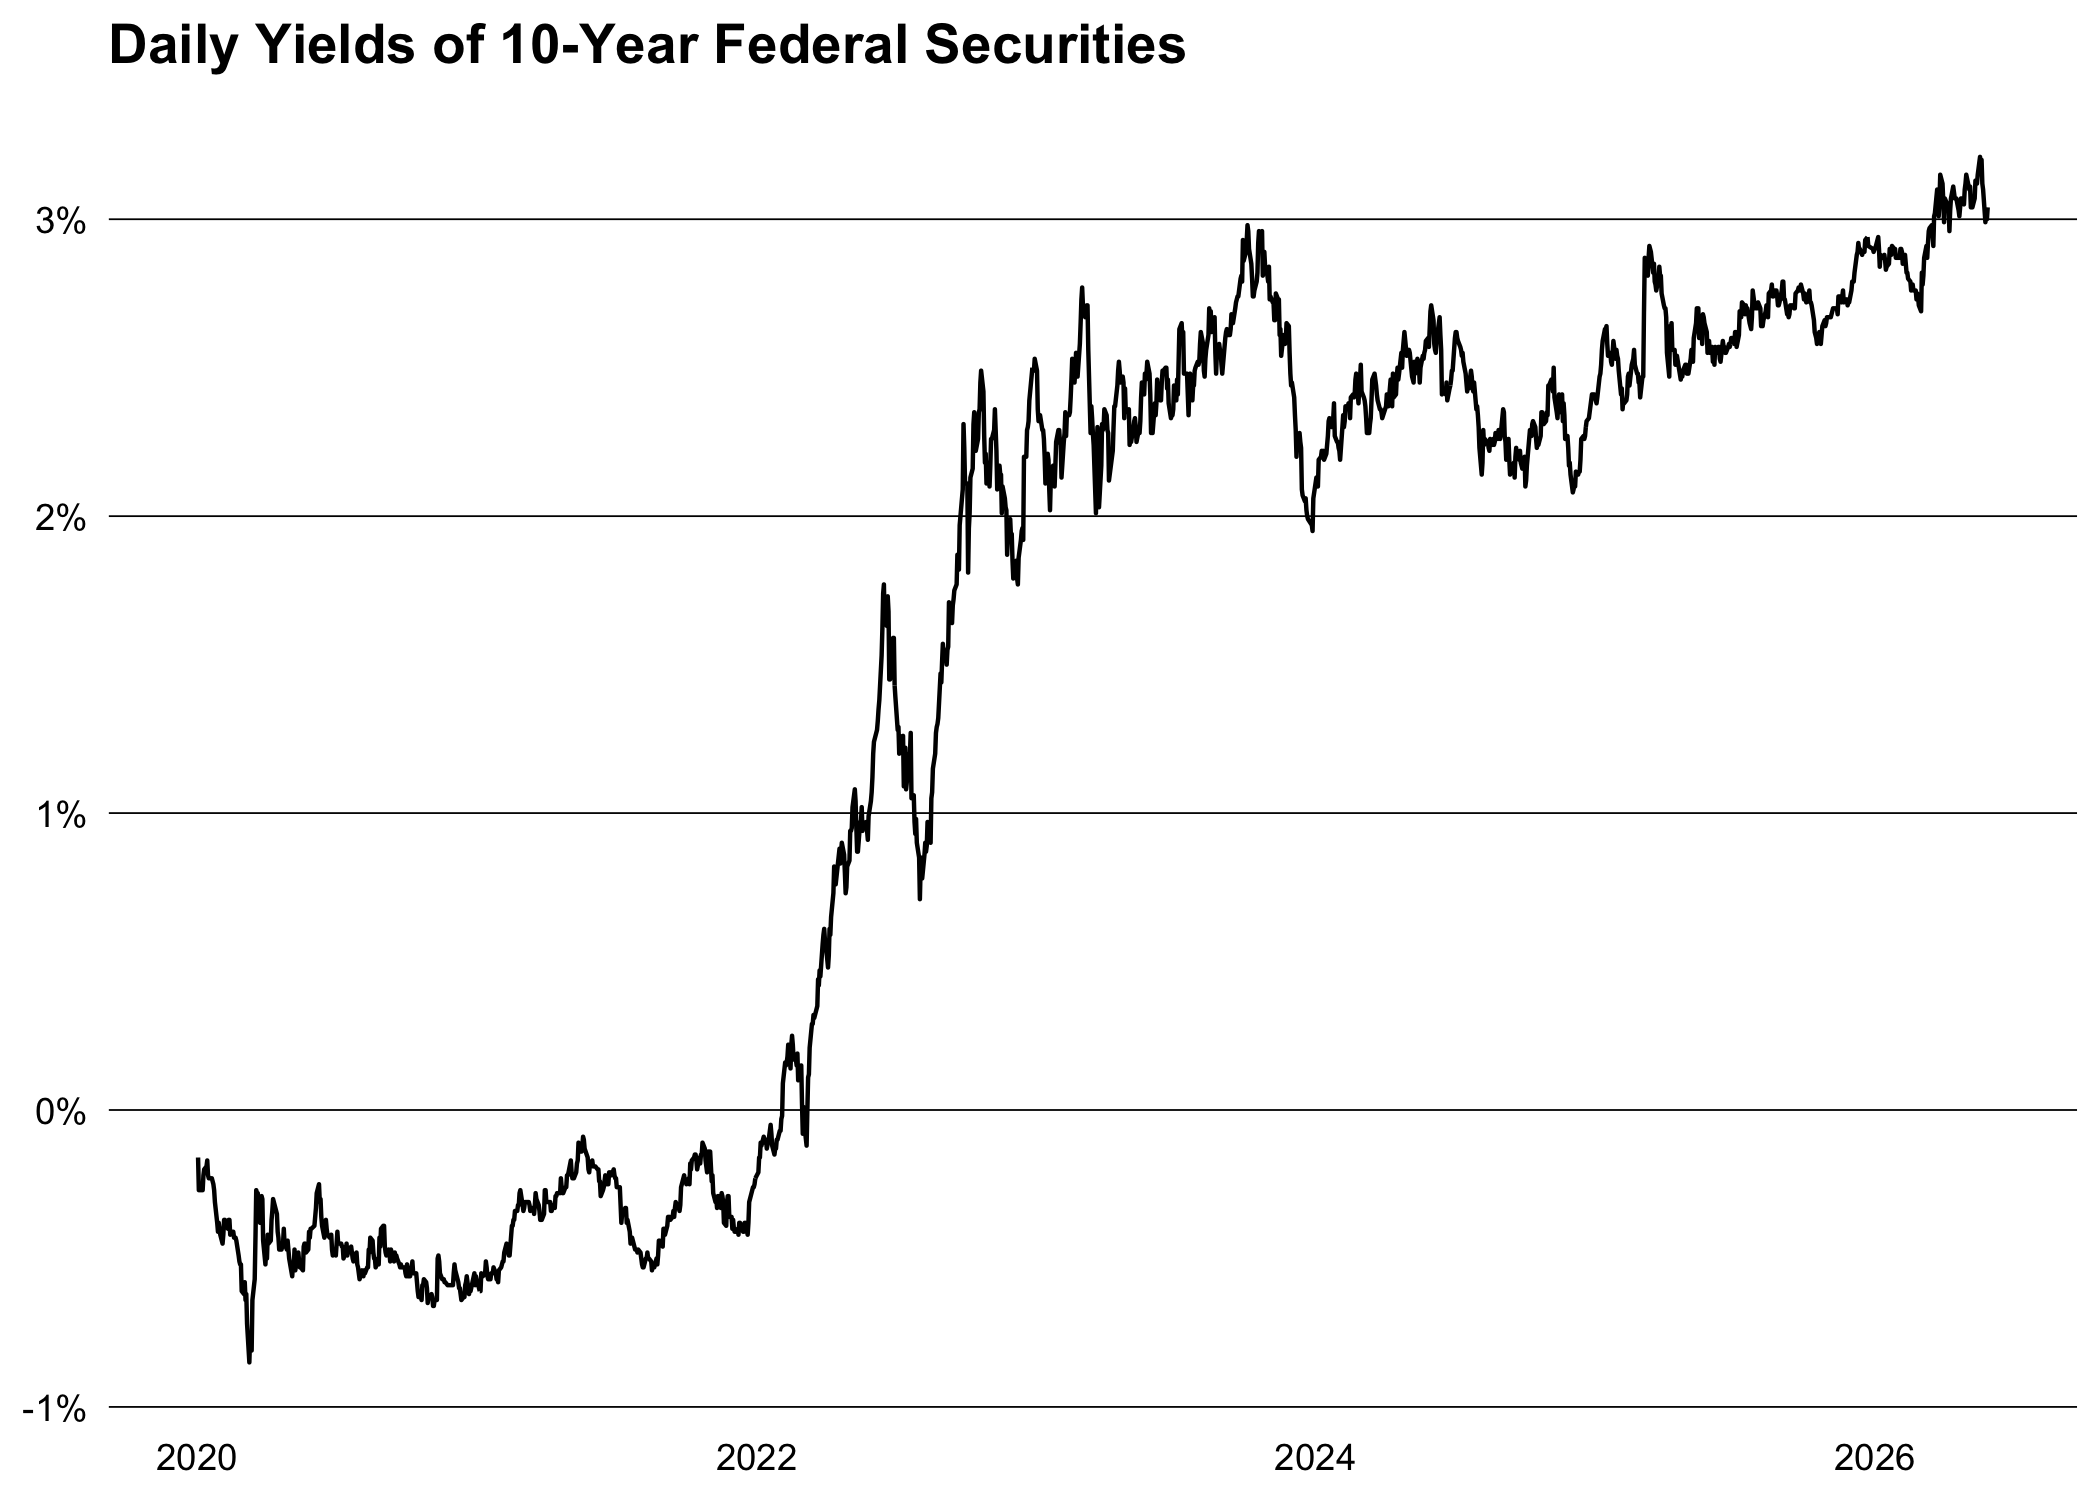
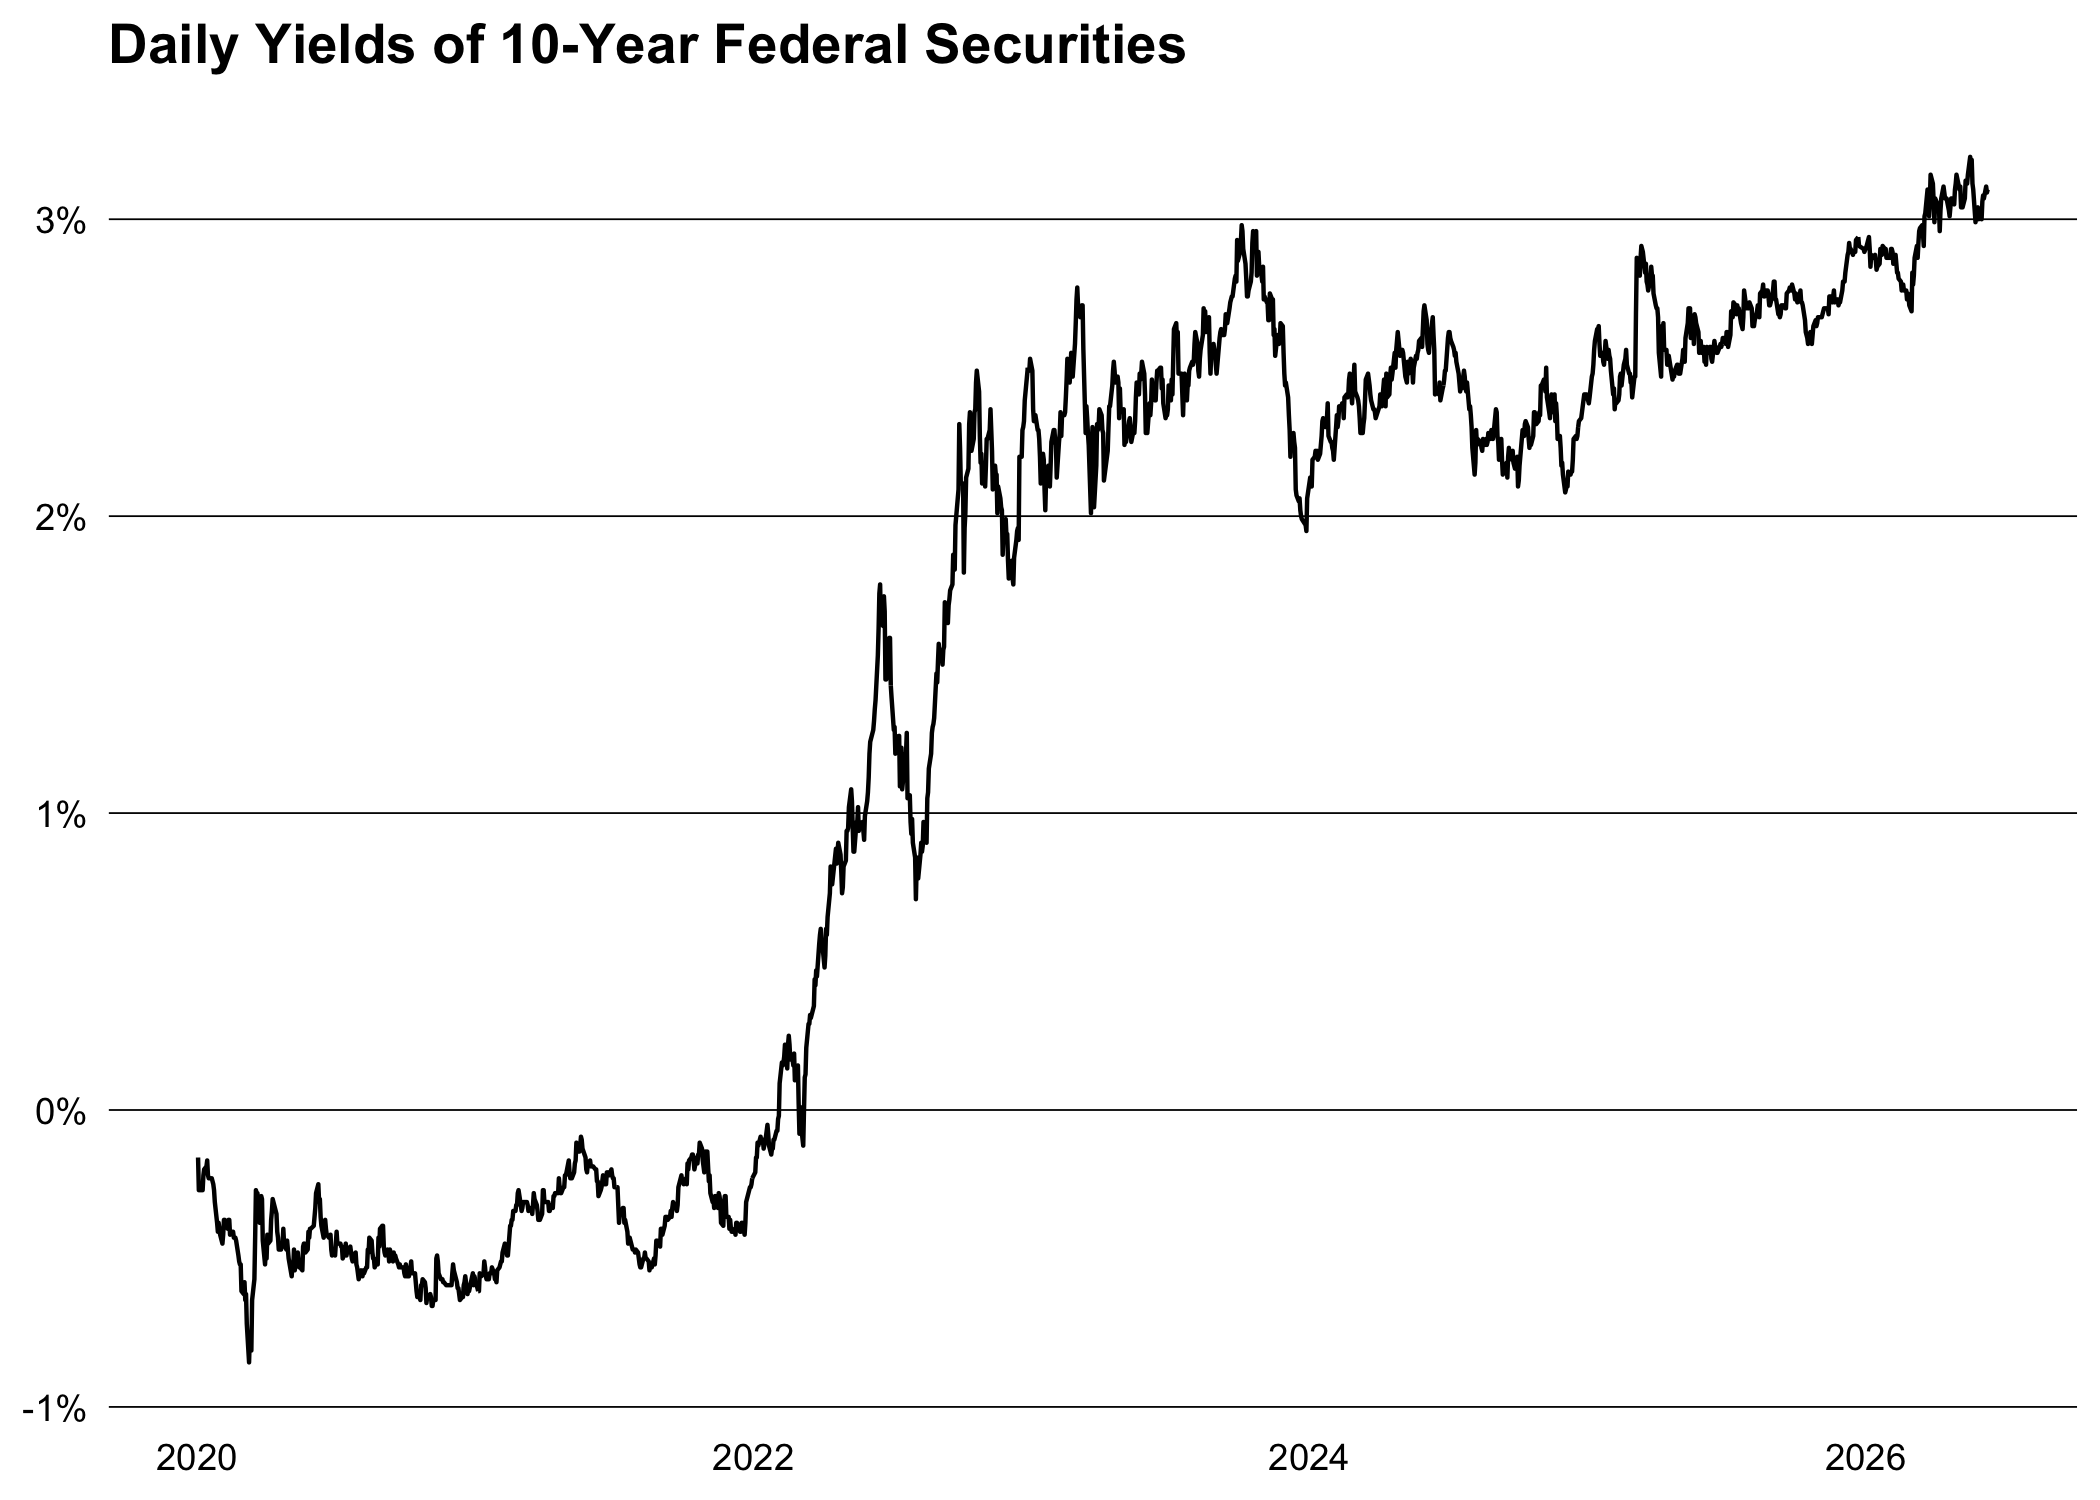
Deploying to gh-pages from @ m-muecke/bbk@07b044e4a7dabdd95133d03b82e670693b5a35a5 🚀

diff --git a/reference/srb_data.html b/reference/srb_data.html
@@ -131,25 +131,25 @@ available date is returned. Default <code>NULL</code>.</p></dd>
 <span class="r-in"><span><span class="fu">srb_data</span><span class="op">(</span><span class="st">"SEKEURPMI"</span>, start_date <span class="op">=</span> <span class="st">"2024-01-01"</span><span class="op">)</span></span></span>
 <span class="r-msg co"><span class="r-pr">#&gt;</span> Waiting 60s for retry backoff <span style="color: #00BB00;">■                               </span></span>
 <span class="r-msg co"><span class="r-pr">#&gt;</span> Waiting 60s for retry backoff <span style="color: #00BB00;">■■                              </span></span>
-<span class="r-msg co"><span class="r-pr">#&gt;</span> Waiting 60s for retry backoff <span style="color: #00BB00;">■■■                             </span></span>
+<span class="r-msg co"><span class="r-pr">#&gt;</span> Waiting 60s for retry backoff <span style="color: #00BB00;">■■■■                            </span></span>
 <span class="r-msg co"><span class="r-pr">#&gt;</span> Waiting 60s for retry backoff <span style="color: #00BB00;">■■■■■                           </span></span>
-<span class="r-msg co"><span class="r-pr">#&gt;</span> Waiting 60s for retry backoff <span style="color: #00BB00;">■■■■■■                          </span></span>
+<span class="r-msg co"><span class="r-pr">#&gt;</span> Waiting 60s for retry backoff <span style="color: #00BB00;">■■■■■■■                         </span></span>
 <span class="r-msg co"><span class="r-pr">#&gt;</span> Waiting 60s for retry backoff <span style="color: #00BB00;">■■■■■■■■                        </span></span>
-<span class="r-msg co"><span class="r-pr">#&gt;</span> Waiting 60s for retry backoff <span style="color: #00BB00;">■■■■■■■■■                       </span></span>
+<span class="r-msg co"><span class="r-pr">#&gt;</span> Waiting 60s for retry backoff <span style="color: #00BB00;">■■■■■■■■■■                      </span></span>
 <span class="r-msg co"><span class="r-pr">#&gt;</span> Waiting 60s for retry backoff <span style="color: #00BB00;">■■■■■■■■■■■                     </span></span>
-<span class="r-msg co"><span class="r-pr">#&gt;</span> Waiting 60s for retry backoff <span style="color: #00BB00;">■■■■■■■■■■■■                    </span></span>
+<span class="r-msg co"><span class="r-pr">#&gt;</span> Waiting 60s for retry backoff <span style="color: #00BB00;">■■■■■■■■■■■■■                   </span></span>
 <span class="r-msg co"><span class="r-pr">#&gt;</span> Waiting 60s for retry backoff <span style="color: #00BB00;">■■■■■■■■■■■■■■                  </span></span>
-<span class="r-msg co"><span class="r-pr">#&gt;</span> Waiting 60s for retry backoff <span style="color: #00BB00;">■■■■■■■■■■■■■■■                 </span></span>
+<span class="r-msg co"><span class="r-pr">#&gt;</span> Waiting 60s for retry backoff <span style="color: #00BB00;">■■■■■■■■■■■■■■■■                </span></span>
 <span class="r-msg co"><span class="r-pr">#&gt;</span> Waiting 60s for retry backoff <span style="color: #00BB00;">■■■■■■■■■■■■■■■■■               </span></span>
-<span class="r-msg co"><span class="r-pr">#&gt;</span> Waiting 60s for retry backoff <span style="color: #00BB00;">■■■■■■■■■■■■■■■■■■              </span></span>
+<span class="r-msg co"><span class="r-pr">#&gt;</span> Waiting 60s for retry backoff <span style="color: #00BB00;">■■■■■■■■■■■■■■■■■■■             </span></span>
 <span class="r-msg co"><span class="r-pr">#&gt;</span> Waiting 60s for retry backoff <span style="color: #00BB00;">■■■■■■■■■■■■■■■■■■■■            </span></span>
-<span class="r-msg co"><span class="r-pr">#&gt;</span> Waiting 60s for retry backoff <span style="color: #00BB00;">■■■■■■■■■■■■■■■■■■■■■           </span></span>
+<span class="r-msg co"><span class="r-pr">#&gt;</span> Waiting 60s for retry backoff <span style="color: #00BB00;">■■■■■■■■■■■■■■■■■■■■■■          </span></span>
 <span class="r-msg co"><span class="r-pr">#&gt;</span> Waiting 60s for retry backoff <span style="color: #00BB00;">■■■■■■■■■■■■■■■■■■■■■■■         </span></span>
-<span class="r-msg co"><span class="r-pr">#&gt;</span> Waiting 60s for retry backoff <span style="color: #00BB00;">■■■■■■■■■■■■■■■■■■■■■■■■        </span></span>
+<span class="r-msg co"><span class="r-pr">#&gt;</span> Waiting 60s for retry backoff <span style="color: #00BB00;">■■■■■■■■■■■■■■■■■■■■■■■■■       </span></span>
 <span class="r-msg co"><span class="r-pr">#&gt;</span> Waiting 60s for retry backoff <span style="color: #00BB00;">■■■■■■■■■■■■■■■■■■■■■■■■■■      </span></span>
-<span class="r-msg co"><span class="r-pr">#&gt;</span> Waiting 60s for retry backoff <span style="color: #00BB00;">■■■■■■■■■■■■■■■■■■■■■■■■■■■     </span></span>
+<span class="r-msg co"><span class="r-pr">#&gt;</span> Waiting 60s for retry backoff <span style="color: #00BB00;">■■■■■■■■■■■■■■■■■■■■■■■■■■■■    </span></span>
 <span class="r-msg co"><span class="r-pr">#&gt;</span> Waiting 60s for retry backoff <span style="color: #00BB00;">■■■■■■■■■■■■■■■■■■■■■■■■■■■■■   </span></span>
-<span class="r-msg co"><span class="r-pr">#&gt;</span> Waiting 60s for retry backoff <span style="color: #00BB00;">■■■■■■■■■■■■■■■■■■■■■■■■■■■■■■  </span></span>
+<span class="r-msg co"><span class="r-pr">#&gt;</span> Waiting 60s for retry backoff <span style="color: #00BB00;">■■■■■■■■■■■■■■■■■■■■■■■■■■■■■■■ </span></span>
 <span class="r-msg co"><span class="r-pr">#&gt;</span> Waiting 60s for retry backoff <span style="color: #00BB00;">■■■■■■■■■■■■■■■■■■■■■■■■■■■■■■■ </span></span>
 <span class="r-out co"><span class="r-pr">#&gt;</span>            date       key   value</span>
 <span class="r-out co"><span class="r-pr">#&gt;</span>          &lt;Date&gt;    &lt;char&gt;   &lt;num&gt;</span>

diff --git a/reference/srb_data.md b/reference/srb_data.md
@@ -89,25 +89,25 @@ srb_data("SEKUSDPMI", start_date = "2024-01-01")
 srb_data("SEKEURPMI", start_date = "2024-01-01")
 #> Waiting 60s for retry backoff ■                               
 #> Waiting 60s for retry backoff ■■                              
-#> Waiting 60s for retry backoff ■■■                             
+#> Waiting 60s for retry backoff ■■■■                            
 #> Waiting 60s for retry backoff ■■■■■                           
-#> Waiting 60s for retry backoff ■■■■■■                          
+#> Waiting 60s for retry backoff ■■■■■■■                         
 #> Waiting 60s for retry backoff ■■■■■■■■                        
-#> Waiting 60s for retry backoff ■■■■■■■■■                       
+#> Waiting 60s for retry backoff ■■■■■■■■■■                      
 #> Waiting 60s for retry backoff ■■■■■■■■■■■                     
-#> Waiting 60s for retry backoff ■■■■■■■■■■■■                    
+#> Waiting 60s for retry backoff ■■■■■■■■■■■■■                   
 #> Waiting 60s for retry backoff ■■■■■■■■■■■■■■                  
-#> Waiting 60s for retry backoff ■■■■■■■■■■■■■■■                 
+#> Waiting 60s for retry backoff ■■■■■■■■■■■■■■■■                
 #> Waiting 60s for retry backoff ■■■■■■■■■■■■■■■■■               
-#> Waiting 60s for retry backoff ■■■■■■■■■■■■■■■■■■              
+#> Waiting 60s for retry backoff ■■■■■■■■■■■■■■■■■■■             
 #> Waiting 60s for retry backoff ■■■■■■■■■■■■■■■■■■■■            
-#> Waiting 60s for retry backoff ■■■■■■■■■■■■■■■■■■■■■           
+#> Waiting 60s for retry backoff ■■■■■■■■■■■■■■■■■■■■■■          
 #> Waiting 60s for retry backoff ■■■■■■■■■■■■■■■■■■■■■■■         
-#> Waiting 60s for retry backoff ■■■■■■■■■■■■■■■■■■■■■■■■        
+#> Waiting 60s for retry backoff ■■■■■■■■■■■■■■■■■■■■■■■■■       
 #> Waiting 60s for retry backoff ■■■■■■■■■■■■■■■■■■■■■■■■■■      
-#> Waiting 60s for retry backoff ■■■■■■■■■■■■■■■■■■■■■■■■■■■     
+#> Waiting 60s for retry backoff ■■■■■■■■■■■■■■■■■■■■■■■■■■■■    
 #> Waiting 60s for retry backoff ■■■■■■■■■■■■■■■■■■■■■■■■■■■■■   
-#> Waiting 60s for retry backoff ■■■■■■■■■■■■■■■■■■■■■■■■■■■■■■  
+#> Waiting 60s for retry backoff ■■■■■■■■■■■■■■■■■■■■■■■■■■■■■■■ 
 #> Waiting 60s for retry backoff ■■■■■■■■■■■■■■■■■■■■■■■■■■■■■■■ 
 #>            date       key   value
 #>          <Date>    <char>   <num>